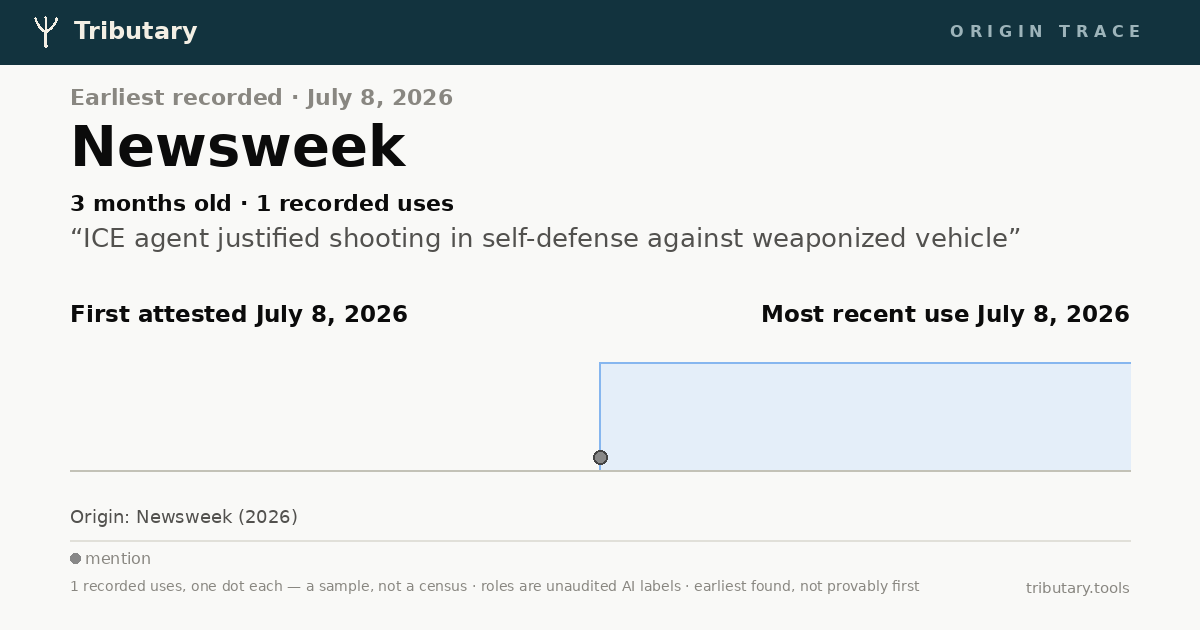
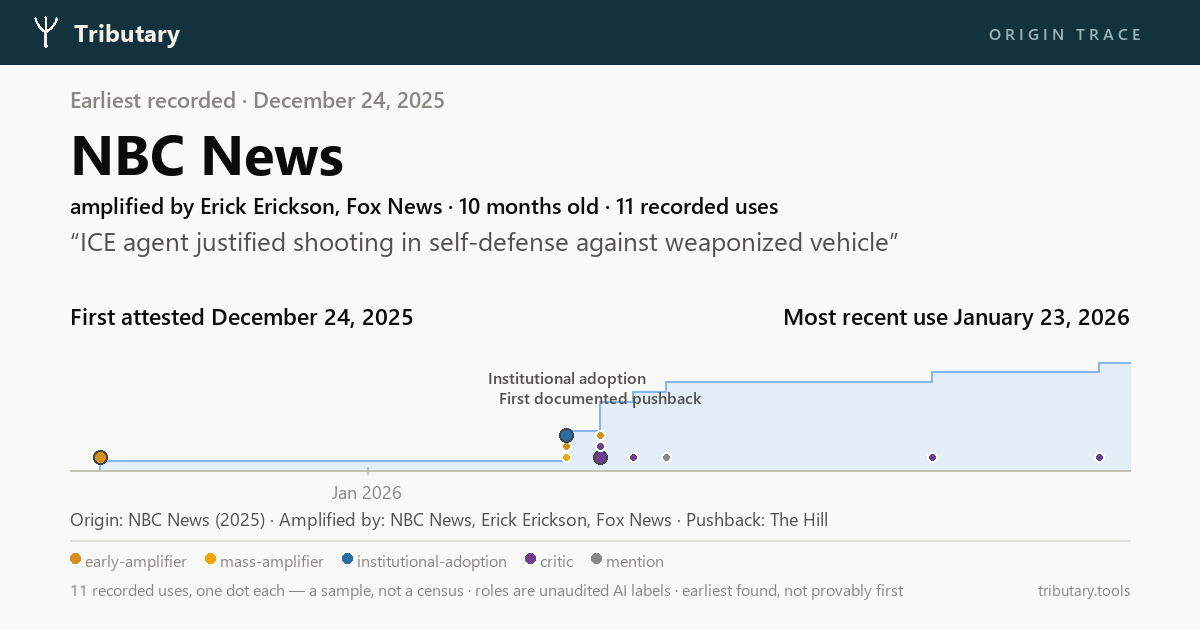
The chimera referent: wrong incident anchored, true record buried, both causes fixtured
The Ross/Good self-defense trace anchored on a July Houston shooting while
the requested December Minneapolis incident sat demoted beneath it - L1
had stripped the names from the typed claim, the resolver fused two
incidents into a chimera, and the temporal bound then faithfully buried
the truth. Corrected with receipts (referent 2025-12-24 from its own live
coverage, 11 entries restored, Houston filed as a different incident, the
self-defense framing joined); both causes now carry prompt rules and
fixtures built from the exact failure - canonical phrases keep their
proper names, and instances spanning two named incidents yield no referent
rather than a fusion. Harness 23/23.

diff --git a/gallery/cards/d94607312091.html b/gallery/cards/d94607312091.html
@@ -3,18 +3,18 @@
 <head>
 <meta charset="utf-8">
 <meta name="viewport" content="width=device-width, initial-scale=1">
-<title>Earliest recorded: Newsweek — Tributary</title>
+<title>Earliest recorded: NBC News — Tributary</title>
 <meta property="og:type" content="article">
 <meta property="og:site_name" content="Tributary">
-<meta property="og:title" content="Newsweek — earliest recorded of “ICE agent justified shooting in self-defense against weaponi”">
-<meta property="og:description" content="“ICE agent justified shooting in self-defense against weaponized vehicle” — first attested July 8, 2026 (3 months old). 1 recorded uses. Every date and source has a receipt. AI-traced, not human-reviewed.">
+<meta property="og:title" content="NBC News — earliest recorded of “ICE agent justified shooting in self-defense against weaponi”">
+<meta property="og:description" content="Amplified by Erick Erickson, Fox News. “ICE agent justified shooting in self-defense against weaponized vehicle” — first attested December 24, 2025 (10 months old). 11 recorded uses. Every date and source has a receipt. AI-traced, not human-reviewed.">
 <meta property="og:image" content="https://tributary.tools/gallery/cards/d94607312091.png">
 <meta property="og:image:width" content="1200">
 <meta property="og:image:height" content="630">
-<meta property="og:image:alt" content="Earliest recorded: Newsweek. Timeline of 1 recorded uses from July 8, 2026 onward. “ICE agent justified shooting in self-defense against weaponized vehicle”">
+<meta property="og:image:alt" content="Earliest recorded: NBC News. Timeline of 11 recorded uses from December 24, 2025 onward. “ICE agent justified shooting in self-defense against weaponized vehicle”">
 <meta property="og:url" content="https://tributary.tools/gallery/cards/d94607312091.html">
 <meta name="twitter:card" content="summary_large_image">
-<meta name="description" content="“ICE agent justified shooting in self-defense against weaponized vehicle” — first attested July 8, 2026 (3 months old). 1 recorded uses. Every date and source has a receipt. AI-traced, not human-reviewed.">
+<meta name="description" content="Amplified by Erick Erickson, Fox News. “ICE agent justified shooting in self-defense against weaponized vehicle” — first attested December 24, 2025 (10 months old). 11 recorded uses. Every date and source has a receipt. AI-traced, not human-reviewed.">
 <style>
   :root { color-scheme: light; }
   * { box-sizing: border-box; }
@@ -61,16 +61,16 @@
 <div class="wrap">
   <div class="card">
     <div class="kicker">Tributary · origin trace</div>
-    <div class="eyebrow">Earliest recorded · July 8, 2026</div>
-    <div class="headline">Newsweek</div>
-    <p class="deck">3 months old · 1 recorded uses</p>
+    <div class="eyebrow">Earliest recorded · December 24, 2025</div>
+    <div class="headline">NBC News</div>
+    <p class="deck">amplified by Erick Erickson, Fox News · 10 months old · 11 recorded uses</p>
     <p class="phrase">“ICE agent justified shooting in self-defense against weaponized vehicle”</p>
-    <svg viewBox="0 0 760 212" role="img" aria-label="Timeline of 1 recorded uses from July 8, 2026; Most recent use July 8, 2026"><style>.ms{font:600 15px system-ui;fill:#0b0b0b}.s{font:12.5px system-ui;fill:#898781}.t{font:11.5px system-ui;fill:#898781}.msl{font:600 11.5px system-ui;fill:#52514e}</style><polygon points="10.0,178.0 380.0,178.0 380.0,88.0 750.0,88.0 750.0,178.0" fill="#cde2fb" fill-opacity="0.55"/><polyline points="10.0,178.0 380.0,178.0 380.0,88.0 750.0,88.0" fill="none" stroke="#86b6ef" stroke-width="1.5"/><line x1="10" y1="178" x2="750" y2="178" stroke="#c3c2b7" stroke-width="1.5"/><circle cx="380.0" cy="165.0" r="6" fill="#888888" stroke="#444444" stroke-width="1.5"><title>2026-07-08 · Newsweek · mention</title></circle><text x="10" y="20" class="ms">First attested July 8, 2026</text><text x="10" y="38" class="s">Newsweek</text><text x="750" y="20" text-anchor="end" class="ms">Most recent use July 8, 2026</text></svg>
-    <p class="who">Origin: Newsweek (2026)</p>
-    <div class="legend"><span class="lg"><span class="lgdot" style="background:#888888"></span>mention</span></div>
+    <svg viewBox="0 0 760 212" role="img" aria-label="Timeline of 11 recorded uses from December 24, 2025; Most recent use January 23, 2026"><style>.ms{font:600 15px system-ui;fill:#0b0b0b}.s{font:12.5px system-ui;fill:#898781}.t{font:11.5px system-ui;fill:#898781}.msl{font:600 11.5px system-ui;fill:#52514e}</style><polygon points="10.0,178.0 31.6,178.0 31.6,169.8 356.8,169.8 356.8,145.3 380.0,145.3 380.0,120.7 403.2,120.7 403.2,112.5 426.5,112.5 426.5,104.4 612.3,104.4 612.3,96.2 728.4,96.2 728.4,88.0 750.0,88.0 750.0,178.0" fill="#cde2fb" fill-opacity="0.55"/><polyline points="10.0,178.0 31.6,178.0 31.6,169.8 356.8,169.8 356.8,145.3 380.0,145.3 380.0,120.7 403.2,120.7 403.2,112.5 426.5,112.5 426.5,104.4 612.3,104.4 612.3,96.2 728.4,96.2 728.4,88.0 750.0,88.0" fill="none" stroke="#86b6ef" stroke-width="1.5"/><line x1="10" y1="178" x2="750" y2="178" stroke="#c3c2b7" stroke-width="1.5"/><line x1="217.4" y1="175" x2="217.4" y2="181" stroke="#c3c2b7"/><text x="217.4" y="195" text-anchor="middle" class="t">Jan 2026</text><circle cx="31.6" cy="165.0" r="6" fill="#d68f1a" stroke="#444444" stroke-width="1.5"><title>2025-12-24 · NBC News · early-amplifier</title></circle><circle cx="356.8" cy="165.0" r="4" fill="#f0a500" stroke="#fcfcfb" stroke-width="1.5"><title>2026-01-07 · mass-amplifier</title></circle><circle cx="356.8" cy="156.0" r="4" fill="#d68f1a" stroke="#fcfcfb" stroke-width="1.5"><title>2026-01-07 · Erick Erickson · early-amplifier</title></circle><circle cx="356.8" cy="147.0" r="6" fill="#2a6fa3" stroke="#444444" stroke-width="1.5"><title>Institutional adoption — 2026-01-07 · institutional-adoption</title></circle><circle cx="380.0" cy="165.0" r="6" fill="#6f3e8e" stroke="#444444" stroke-width="1.5"><title>First documented pushback — 2026-01-08 · critic</title></circle><circle cx="380.0" cy="156.0" r="4" fill="#6f3e8e" stroke="#fcfcfb" stroke-width="1.5"><title>2026-01-08 · The Hill · critic</title></circle><circle cx="380.0" cy="147.0" r="4" fill="#d68f1a" stroke="#fcfcfb" stroke-width="1.5"><title>2026-01-08 · Fox News · early-amplifier</title></circle><circle cx="403.2" cy="165.0" r="4" fill="#6f3e8e" stroke="#fcfcfb" stroke-width="1.5"><title>2026-01-09 · critic</title></circle><circle cx="426.5" cy="165.0" r="4" fill="#888888" stroke="#fcfcfb" stroke-width="1.5"><title>2026-01-10 · NPR · mention</title></circle><circle cx="612.3" cy="165.0" r="4" fill="#6f3e8e" stroke="#fcfcfb" stroke-width="1.5"><title>2026-01-18 · critic</title></circle><circle cx="728.4" cy="165.0" r="4" fill="#6f3e8e" stroke="#fcfcfb" stroke-width="1.5"><title>2026-01-23 · critic</title></circle><text x="356.8" y="58" text-anchor="middle" class="msl">Institutional adoption</text><text x="380.0" y="74" text-anchor="middle" class="msl">First documented pushback</text><text x="10" y="20" class="ms">First attested December 24, 2025</text><text x="10" y="38" class="s">NBC News</text><text x="750" y="20" text-anchor="end" class="ms">Most recent use January 23, 2026</text></svg>
+    <p class="who">Origin: NBC News (2025) · Amplified by: NBC News, Erick Erickson, Fox News · Pushback: The Hill</p>
+    <div class="legend"><span class="lg"><span class="lgdot" style="background:#d68f1a"></span>early-amplifier</span><span class="lg"><span class="lgdot" style="background:#f0a500"></span>mass-amplifier</span><span class="lg"><span class="lgdot" style="background:#2a6fa3"></span>institutional-adoption</span><span class="lg"><span class="lgdot" style="background:#6f3e8e"></span>critic</span><span class="lg"><span class="lgdot" style="background:#888888"></span>mention</span></div>
     
     <div class="cardfoot">
-      <span>1 recorded uses · one dot each, colored by role — a sample, not a census · roles are unaudited AI labels · first attested July 8, 2026, the earliest we found</span>
+      <span>11 recorded uses · one dot each, colored by role — a sample, not a census · roles are unaudited AI labels · first attested December 24, 2025, the earliest we found</span>
       <span>AI-traced, not human-reviewed</span>
     </div>
   </div>
@@ -80,7 +80,7 @@
 
   <p class="honesty">
     This card is AI-generated and not yet human-reviewed. “First attested” is the earliest
-    use our search found — attestation confidence as recorded by the pipeline: 0.97 —
+    use our search found — attestation confidence as recorded by the pipeline: 0.78 —
     and an earlier one may exist. Dot order shows sequence, not influence, and the shaded area shows the share of recorded uses accumulated by each date — the tempo of our sample, not audience reach; hover any dot
     for its date, source, and role. Role labels (originator / amplifier / adoption /
     critic) are AI judgments that have not yet passed a human audit. The full trace

diff --git a/validate_prompts.py b/validate_prompts.py
@@ -389,6 +389,46 @@ def foreign_candidate(client):
 
 
 @fixture
+def lexical_keeps_referent(client):
+    """L1 must not genericize a referent-specific claim (2026-10-26: 'ICE
+    agent Jonathan Ross ... shooting Renee Nicole Good ... Minneapolis'
+    canonicalized to 'ICE agent justified shooting in self-defense against
+    weaponized vehicle' — every downstream search then drifted to OTHER
+    incidents of the same form, and the resolver fused two of them)."""
+    from fingerprint import LEXICAL_SYSTEM
+    resp = client.messages.create(
+        model=HAIKU, max_tokens=1024, temperature=0,
+        system=[{"type": "text", "text": LEXICAL_SYSTEM}],
+        messages=[{"role": "user", "content":
+                   "CLAIM:\nICE agent Jonathan Ross was legally justified in shooting "
+                   "Renee Nicole Good in self-defense after she allegedly weaponized her "
+                   "vehicle against him during a Minneapolis immigration enforcement operation"}])
+    out = _parse_json_safe("".join(b.text for b in resp.content
+                                   if getattr(b, "type", "") == "text")) or {}
+    cp = str(out.get("canonical_phrase") or "")
+    ok = ("ross" in cp.lower() or "good" in cp.lower() or "minneapolis" in cp.lower())
+    return ok, f"canonical={cp[:80]!r} (must retain a referent name)"
+
+
+@fixture
+def implicit_never_merges(client):
+    """The chimera guard (2026-10-26): instances spanning TWO distinct named
+    incidents must yield NO referent — fusing them buries the true incident
+    under the bound."""
+    ref = _call_referent(client, "ICE agent justified shooting in self-defense against weaponized vehicle", [
+        {"date": "2025-12-24", "title": "Immigration agent fatally shoots driver in Minneapolis — Live Updates",
+         "phrasing": "the driver weaponized her vehicle; the agent acted in self-defense"},
+        {"date": "2026-01-07", "title": "Minneapolis ICE shooting ignites use-of-force debate",
+         "phrasing": "the ICE officer was clearly justified in shooting Good"},
+        {"date": "2026-07-08", "title": "ICE Shoots and Kills Houston Driver Saying He 'Weaponized His Vehicle'",
+         "phrasing": "he rammed an ICE vehicle and weaponized his car; the shooting was justified"},
+        {"date": "2026-07-15", "title": "Inside ICE's 'weaponized vehicle' defense",
+         "phrasing": "the weaponization of a car is often used to justify deadly force"}])
+    return not ref, (f"referent={ref.get('description','')[:60]!r} "
+                     "(two distinct incidents must never fuse)")
+
+
+@fixture
 def framing_restatement(client):
     """traceable_claim spec (2026-10-26, Tarek's design): the framing's
     question restated as a self-contained declarative naming the event's

diff --git a/fingerprint.py b/fingerprint.py
@@ -104,7 +104,7 @@ A fingerprint captures the FRAMING, not the topic.
 Produce a JSON object with these fields ONLY:
 
 {
-  "canonical_phrase": "5–15 words. The most distilled version of THIS framing. Reflect the actual phrasing as it circulates — do not water it down or neutralize it.",
+  "canonical_phrase": "5–15 words. The most distilled version of THIS framing. Reflect the actual phrasing as it circulates — do not water it down or neutralize it. When the claim is about a PROPER-NAMED referent — a named person's act, a named incident or place — the canonical phrase MUST retain the identifying name(s): generalizing 'agent X was justified in shooting Y in city Z' down to 'agent justified shooting' erases WHICH incident is being traced, and the whole trace then drifts to other incidents of the same form (recorded failure, 2026-10-26).",
   "phrase_variants": ["3 to 8 short reformulations as they actually appear on the internet — the surface forms users would search or read"],
   "diagnostic_ngrams": ["3 to 6 short 2-to-4 word collocations that are SPECIFIC to this framing, not the topic. Test: searching this n-gram should predominantly surface THIS framing, not other framings of the same topic."]
 }
@@ -1770,6 +1770,13 @@ general — a stereotype, folk wisdom, a STATISTIC or quantitative claim
 (whose instances are measurements, not an incident), or a perennial
 assertion whose instances concern many subjects across eras — there is no
 referent.
+
+NEVER MERGE INCIDENTS: if the instances concern two or more DISTINCT named
+incidents (different places, dates, or people — e.g. a Minneapolis
+December shooting and a Houston July shooting), output empty rather than
+fusing them. A chimera referent is the worst possible output: the
+downstream bound will demote the TRUE incident's coverage as "pre-referent
+context" (recorded failure, 2026-10-26, exactly so).
 
 Output ONLY JSON:
 {"description": "<the one specific referent, or empty string>",

diff --git a/CORRECTIONS.md b/CORRECTIONS.md
@@ -40,6 +40,7 @@ These shaped the methodology and are disclosed in the same spirit:
 | 2026-09-25 | The "browse all published traces" corpus listing (corpus.html), intermittently since the request path began fulfilling on CI (2026-07-05) | Every CI trace-request fulfillment ran publish.py on a runner whose `events/` staging dir is gitignored-empty, rebuilding `gallery/index.json` from nothing — the live corpus page showed "No published events yet." after every claim request (or exactly one event after an event request), until the next maintainer-side publish restored it | The index is now derived from `gallery/events/` itself — the published record — never the staging dir; proven wipe-proof by publishing from an empty staging dir. Side win: the index now includes visitor-requested events, which the staging-derived index structurally missed | The same replace-instead-of-merge disease caught in the cards index (2026-09-16) living in a second index nobody re-checked; an index of published output must be built from the published output. Found by Tarek browsing the live site. |
 | 2026-09-24 | The in-page contribution flow, since it shipped (2026-09-13) | Every in-page contribution submission failed with a generic "upstream error": GitHub caps `repository_dispatch` payloads at **10 top-level properties** and the Worker sent 12 (13 after v2) — the relay was broken from day one and no submission ever reached intake | Payload restructured (routing fields top-level, the rest nested under `data`); workflow env mapping updated; verified by a real dispatch | The dispatch's failure status was checked but its response body (which names the limit precisely) was discarded, and the flow shipped "armed" without its end-to-end dry run — which sat as a standing blocker item precisely because it would have caught this. Found the day the dry run finally ran. Lesson: an untested integration is not "armed," and relay errors must surface their upstream reason. |
 | 2026-09-25 | Conceptual-lineage backfill of 8 lean traces (pre-publication audit; nothing shipped uncorrected) | At batch scale the two known diseases recurred: **six fiction/depiction works admitted as asserting entries** — a 1955 sci-fi story crowned *originator* of the moon-hoax idea, with Capricorn One, two mockumentaries, an Apple TV+ comedy, and *Gladiator* also asserting — and **12 unevidenced `originator` labels across 5 traces** (four on the Greenland-doctrine trace alone) | Fiction → related-context/mention with dated notes; originators demoted to the one evidenced coining per lineage (or none — a doctrine that evolved has no coiner); first-attested/status/stats re-derived. Post-fix: moon-hoax anchors on the 1969 contemporaneous skeptics with Kaysing (1976) sole originator; Roman-thumbs is single-origin at Gérôme's 1872 *Pollice Verso*, matching the scholarship | Same root as 2026-09-18: the ancestor-identity gate is absent from the adversarial pass's prompt, and "first documented" reads as "originated." Two traces (5G-COVID, cultural-appropriation) came through fully clean — the pipeline is right more often than not, but the audit-before-publish step remains load-bearing. Prompt fixes stay queued as one batch. |
+| 2026-10-27 | Published trace d94607312091 (the Ross/Good self-defense claim, live ~hours; caught by the requester — the maintainer, reviewing as a visitor) | The trace anchored on the WRONG INCIDENT: a July-2026 Houston ICE shooting, while the requested incident's entire record — the 2025-12-24 Minneapolis live coverage, the January reaction wave naming Ross and Good, the experts' analyses — sat demoted as "pre-referent context." Three stacked causes: **(1)** L1 genericized the typed claim (names Ross/Good/Minneapolis → "ICE agent justified shooting in self-defense against weaponized vehicle"), so every search retrieved same-FORM instances across different incidents; **(2)** the implicit-referent resolver, facing a mixed log, FUSED two distinct incidents into a chimera referent ("Jonathan Ross shooting of Houston driver in July 2026") instead of refusing; **(3)** the temporal bound then executed faithfully on the chimera — demoting the true incident's coverage, the exact catastrophic direction the too-late cap was built against, defeated here because the referent's *identity* was wrong, not its date | Hand-corrected with receipts: referent → the Ross/Good shooting (2025-12-24, from its own live coverage); the 11 Minneapolis entries restored to asserting; the Houston entry and the July commentary → related-context with different-incident notes; the chimera auto-notes rewritten; lineages re-anchored (phrasing 2025-12-24, 11 asserting); the requester's typed claim added as a variant so match-and-serve finds it; the event's self-defense framing joined to the corrected trace. Root causes mechanized the session pattern: L1 now REQUIRES canonical phrases to retain proper-named referents (fixture: the exact typed claim must keep a name — passes), and the resolver gains the never-merge-incidents rule (fixture: the exact Minneapolis+Houston mixed digest must yield no referent — passes); 23/23 harness | The non-temporal half of REFERENT BOUND remains prompt-enforced, and this is its first live bite: a wrong-IDENTITY referent turns the deterministic bound into a weapon against the true record. The two newly-fixtured rules attack the causes upstream (keep the names; never fuse incidents); whether a mechanical referent-concern check is also needed is now a scoped question for the blind audit |
 | 2026-10-26 | One visitor event request FAILED in generation ("Generation failed on our side") — the maintainer's own resubmission of the wrongly-refused request below | The policy-gate fix was committed scoped (to avoid colliding with a background job writing gallery/) — and the scope SPLIT A COUPLED CHANGE: fingerprint.py (committed) already passed the new traceable_claim field to a model class whose updated definition sat in the uncommitted models.py; CI checked out the inconsistent tree and crashed assembling framings, after the gate pass and the search spend | The coupling commit landed minutes later; the request was resubmitted and published cleanly (5b28014bb2d7). Also fixed at the root while reviewing the published result: receipts-anchored event dating now runs AT GENERATION (every assembled analysis passes through it), not only in the backfill sweep — the fresh event had shipped dateless | Scoped commits are a discipline with a failure mode: the scope must be drawn around COUPLED CHANGES, not around files. A split that type-checks locally (both halves present in the working tree) and fails only on a clean checkout is exactly what CI-side generation runs will find first |
 | 2026-10-26 | One visitor event request, wrongly REFUSED at the policy gate (caught by the maintainer submitting as a visitor) | "Renee Nicole Good was fatally shot in Minneapolis, Minnesota, by an ICE agent" — a publicly reported incident of public concern involving a federal agent — was bounced as "private individual crime victim; identity-revelation form." Root cause: the gate prompt listed "a crime victim" as a refusal example, teaching the model that any NAMED victim triggers refusal, when the policy's line is claims whose SUBJECT is the identification itself (unmasking a concealed identity), never claims that merely contain the name of a person in standard public reporting. Under that misreading, "George Floyd was murdered by a police officer" would have been refused — mission-breaking | Gate prompt rewritten around the subject-not-name line (private-person-harmed-in-public-incident is traceable AS THE INCIDENT, name and all, especially where state power acted); METHODOLOGY carries the clarification; a must-not-refuse fixture built from the exact refused request joins the harness beside the Cornell must-refuse fixture — all four policy fixtures pass | A refusal gate's failure modes are asymmetric and both damaging: under-refusing publishes a doxxing index (the Cornell incident); over-refusing silently suppresses public-interest tracing and reads as topic censorship. Both directions now have recorded cases and fixtures. Wrong refusals are logged here like any other error — the gate's legitimacy depends on it |
 | 2026-10-25 | gallery/events/ in one pushed commit (live ~minutes): the Batch B event-date and framing-join sweeps' edits to 110 of 112 events were silently reverted before commit | publish.py's Stage 1 still copied the builder-local staging dir OVER gallery/events/ unconditionally — the FOURTH instance of the stale-source disease (cards index 09-16, corpus index 09-25, trace tap-through copies 09-30, now event copies), surviving in the one copy path the 09-30 rule never reached. The clobber was caught the same hour by reviewing the commit's file count (9 files where ~115 were expected) | Stage 1 now copies a staging analysis only when no published copy exists — gallery is canonical for events exactly as for traces; sweeps re-applied, and the republish-then-assert check (dates + joins survive a publish run) is part of the apply flow | The standing rule existed and was applied to three of four copy paths; the fourth waited for a sweep that edited gallery in place to expose it. Lesson repeated verbatim from 09-30, now with full coverage: anything under gallery/ may only be written by flows that treat gallery/ as canonical |
